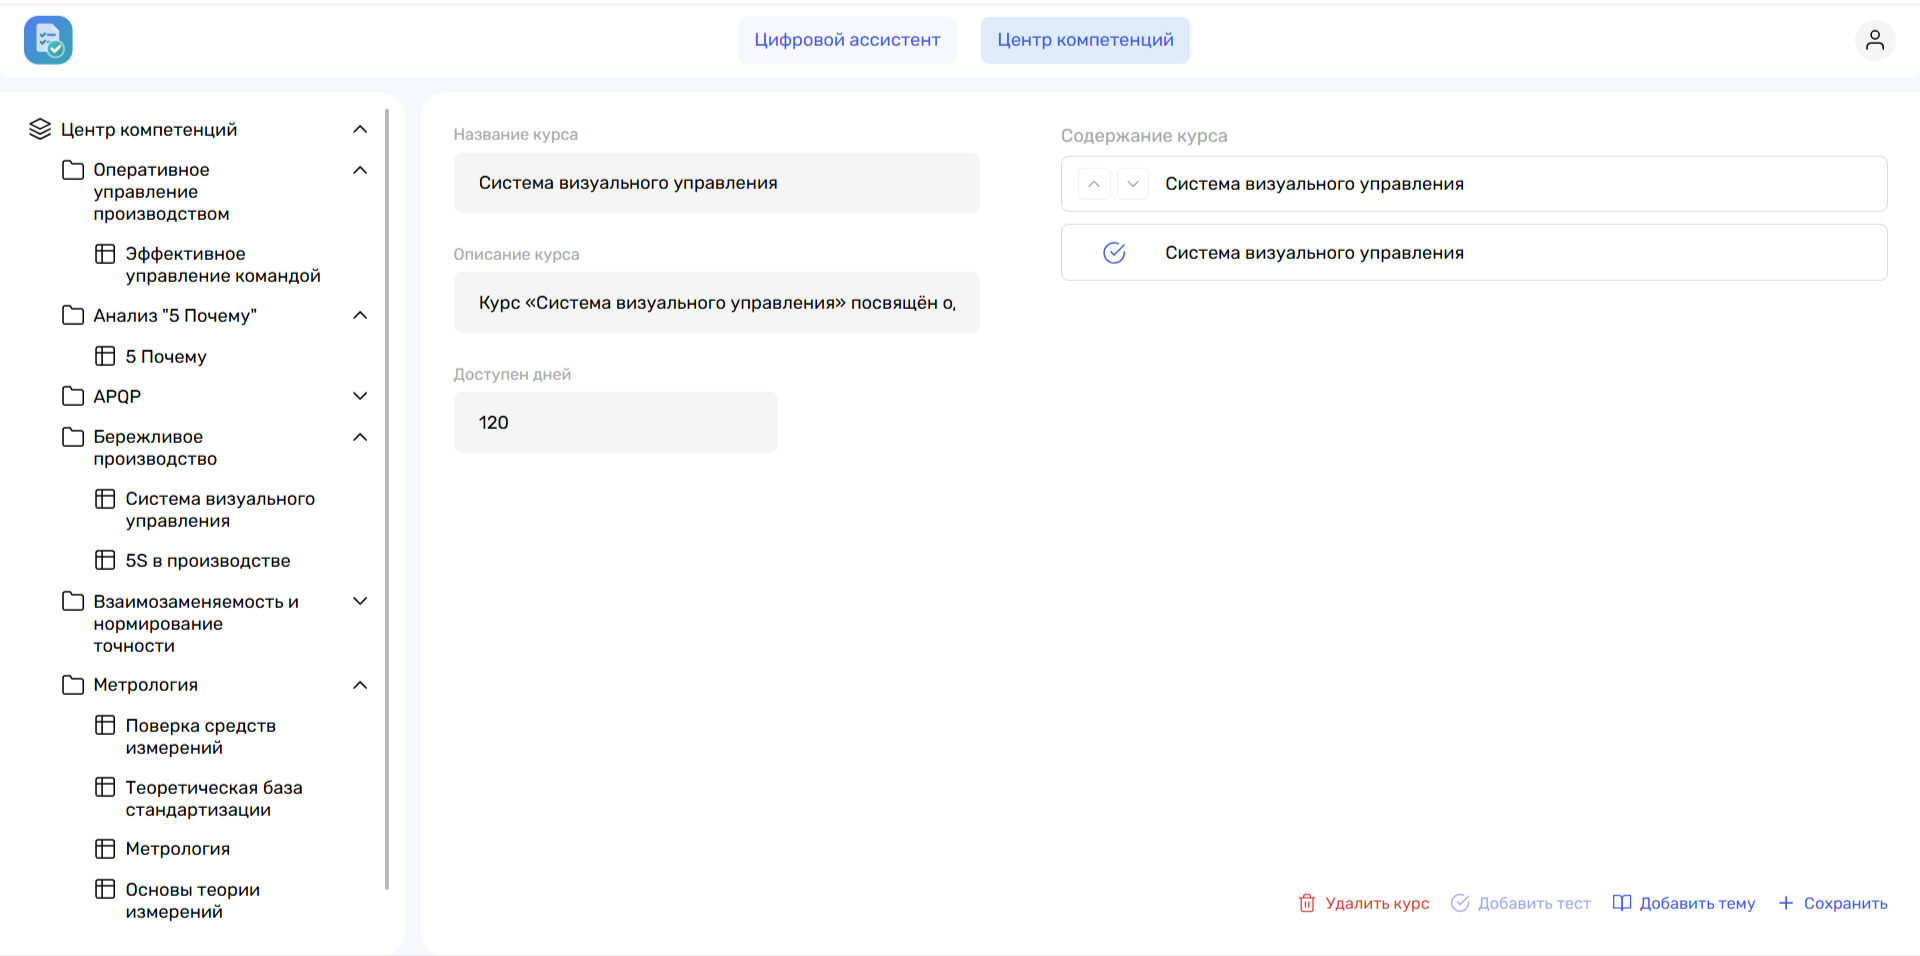
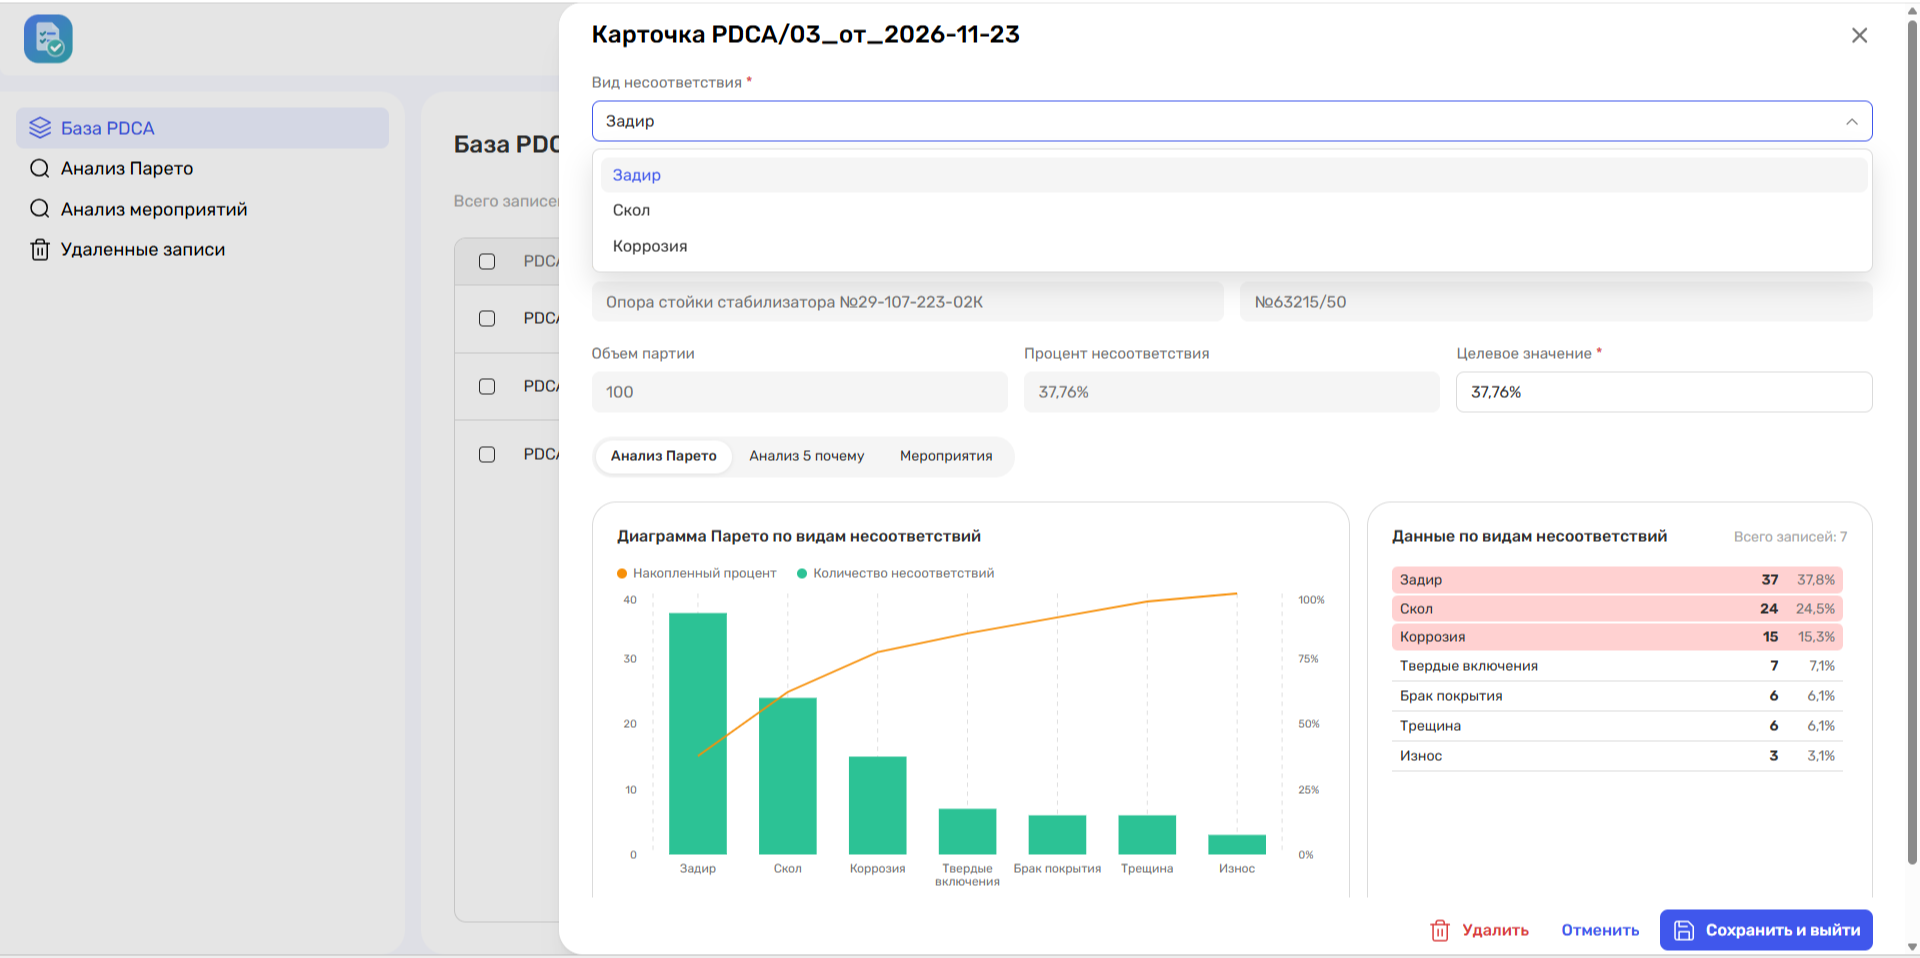
СМК: в демонстрацию платформы загружены пять экранов

diff --git a/smk.html b/smk.html
@@ -231,13 +231,19 @@
         <div class="shots-viewport" tabindex="0" role="group" aria-label="Экраны платформы: листайте стрелками или свайпом">
           <div class="shots-track">
             <figure class="shot">
-              <img src="assets/platform/shot-1.png" alt="Экран платформы: редактор курса в центре компетенций" width="1920" height="956">
+              <img src="assets/platform/shot-1.png" alt="Экран платформы: база несоответствий, анализ несоответствий" width="1920" height="957">
             </figure>
             <figure class="shot">
-              <img src="assets/platform/shot-2.png" alt="Экран платформы: рабочий стол цифрового ассистента" width="1920" height="942">
+              <img src="assets/platform/shot-2.png" alt="Экран платформы: база несоответствий, выбор записи для удаления" width="1920" height="951">
             </figure>
             <figure class="shot">
-              <img src="assets/platform/shot-3.png" alt="Экран платформы: модель процессов СМК" width="1920" height="954">
+              <img src="assets/platform/shot-3.png" alt="Экран платформы: PDCA, поиск коренных причин, выбор несоответствий" width="1920" height="958">
+            </figure>
+            <figure class="shot">
+              <img src="assets/platform/shot-4.png" alt="Экран платформы: PDCA, поиск коренных причин, детальный просмотр мероприятий" width="1920" height="962">
+            </figure>
+            <figure class="shot">
+              <img src="assets/platform/shot-5.png" alt="Экран платформы: PDCA, анализ мероприятий" width="1920" height="952">
             </figure>
           </div>
         </div>
@@ -247,6 +253,8 @@
             <button type="button" role="tab" aria-selected="true" aria-label="Экран 1"></button>
             <button type="button" role="tab" aria-selected="false" aria-label="Экран 2"></button>
             <button type="button" role="tab" aria-selected="false" aria-label="Экран 3"></button>
+            <button type="button" role="tab" aria-selected="false" aria-label="Экран 4"></button>
+            <button type="button" role="tab" aria-selected="false" aria-label="Экран 5"></button>
           </div>
           <button class="shots-btn" type="button" data-dir="1" aria-label="Следующий экран">→</button>
         </div>
